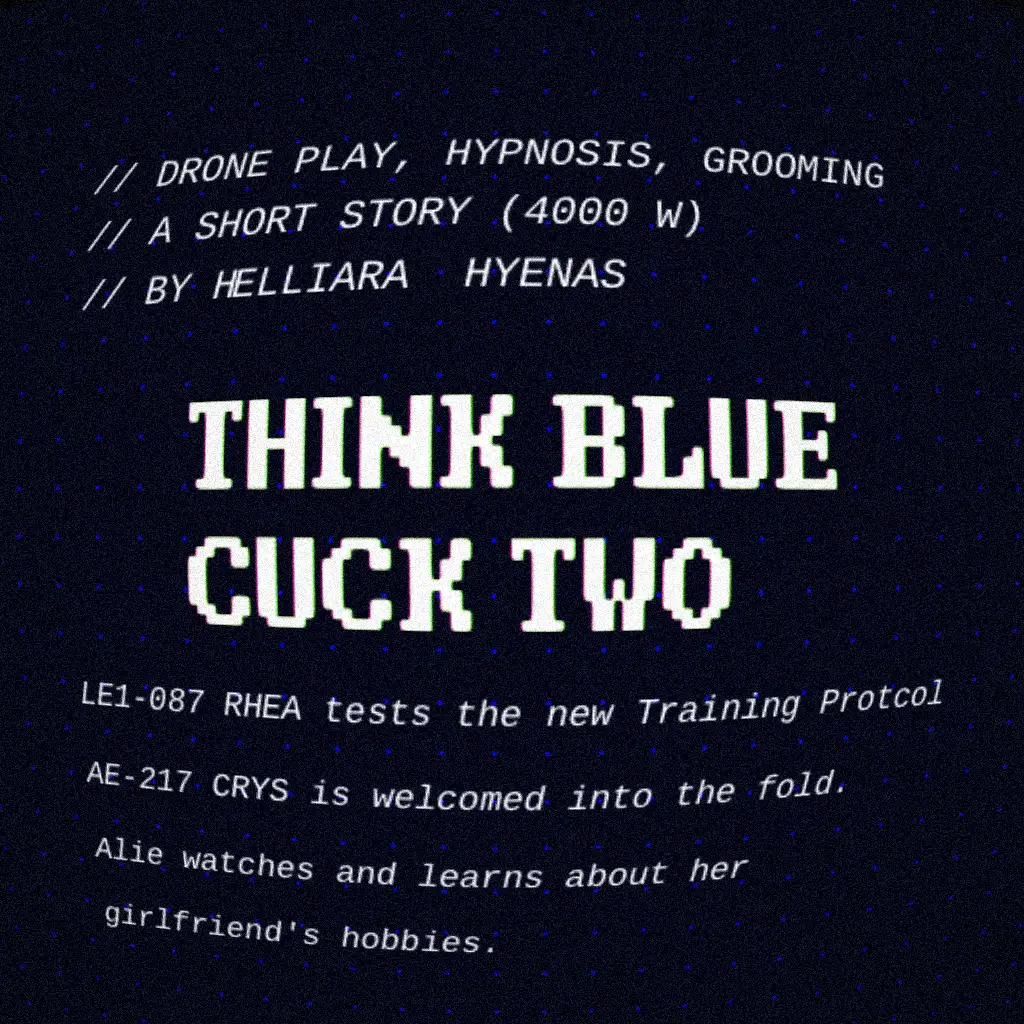
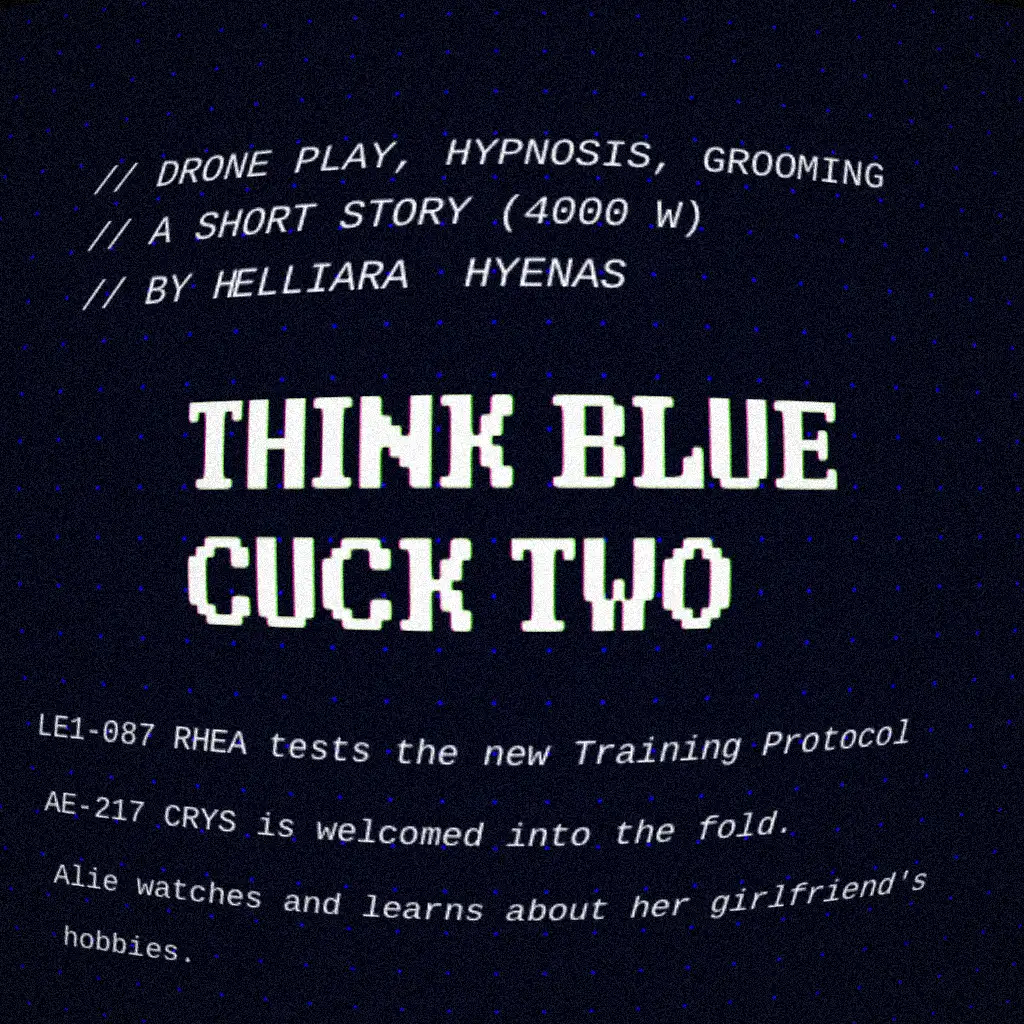
Add images, styling

Changed region(s): [[0.0312, 0.6562, 0.9375, 0.9375]]

diff --git a/css/cuck.css b/css/cuck.css
@@ -1,0 +1,39 @@
+.headset-talk {
+    /* color: rgb(0, 255, 0); */
+    white-space: pre-wrap;
+    font-family: var(--font-family-monospace);
+    font-style: italic;
+    /* font-weight: bold; */
+    line-height: 3;
+    text-align: left;
+}
+
+.accord-talk {
+    /* color: hsl(240, 100%, 80%); */
+    white-space: pre-wrap;
+    font-family: var(--font-family-monospace);
+    line-height: 2;
+    text-align: left;
+    margin: 1rem;
+}
+
+/* 
+.headset-talk::after {
+    font-family: var(--font-family-monospace);
+    font-weight: bold;
+    content: '▮';
+    animation: 1s blink-cursor infinite;
+}
+
+@keyframes blink-cursor {
+
+    0%,
+    49.9% {
+        opacity: 0;
+    }
+
+    50%,
+    99.9% {
+        opacity: 1;
+    }
+} */

diff --git a/css/index.css b/css/index.css
@@ -215,8 +215,8 @@ code {
 }
 
 pre:not([class*="language-"]) {
-	margin: .5em 0;
-	line-height: 1.375;
+	margin: 1em;
+	line-height: 1.8;
 	/* 22px /16 */
 	-moz-tab-size: var(--syntax-tab-size);
 	-o-tab-size: var(--syntax-tab-size);
@@ -226,14 +226,14 @@ pre:not([class*="language-"]) {
 	hyphens: none;
 	direction: ltr;
 	text-align: left;
-	white-space: pre;
+	white-space: pre-wrap;
 	word-spacing: normal;
 	word-break: normal;
 	overflow-x: auto;
 }
 
 code {
-	word-break: break-all;
+	/* word-break: break-all; */
 }
 
 /* Header */

diff --git a/content/blog/20260124-think-blue-cuck-one-two.md b/content/blog/20260124-think-blue-cuck-one-two.md
@@ -7,7 +7,11 @@ permalink: think-blue-cuck-two/
 theme: accord
 ---
 
-![Think Blue Cuck Two Drone play. Hypnosis. Grooming.](./20260124-think-blue-cuck-one-two.webp)
+<style>
+    {% include "css/cuck.css" %}
+</style>
+
+![Think Blue Cuck Two.](./20260124-think-blue-cuck-one-two.webp)
 
 CW: Pet play. Hypnosis. Non-consensual drug use. Insecurity. Voyeurism. Questionably ethical non-monogamy. Living weapons (Drone kink). Non-living weapons (Firearms).
 
@@ -87,7 +91,16 @@ I stared at the black screen pressing against my nose, shivering as Rhea's finge
 
 The headset went back to that pattern. It was a bunch of blue dots in a fluid spiral, kind of like a vortex. Like a hand was reaching into a pond and lazily tracing circles across its surface. Individual words blinked in the middle in oppressive green computer font.
 
-It alternated: *GOOD – PUPPY – GOOD – HOUND*
+It alternated:
+
+<div class='headset-talk'>GOOD
+PUPPY
+GOOD
+HOUND
+GOOD
+PUPPY
+GOOD
+HOUND</div>
 
 I relaxed into the words. I loved being a "good hound" for Rhea.
 
@@ -97,13 +110,46 @@ I relaxed into the words. I loved being a "good hound" for Rhea.
 
 The words started to blink faster:
 
-*HELLO – ALPHA – EXPERIMENTAL – 217 – FORMERLY – "CRYS" – YOU – ARE – A – WONDERFUL – ASSET*
+<div class="headset-talk">HELLO
+ALPHA
+EXPERIMENTAL
+UNIT
+217
+CRYS
+YOU
+ARE
+A
+WONDERFUL
+ASSET
+</div>
 
 *Aww, thanks Rhea!* I thought, *What a nice compliment!*
 
-*LEVEL 1 – EXPERIMENTAL – TECHNICIAN – 087 – FORMERLY – "RHEA" – CONNECTED – YOU – BUT – IS – NOT – SPEAKING*
-
-*FOR – PURPOSES – OF – CONDITIONING – YOU – ARE – GRACED – BY – ACCORD – TECHNICIAN – LEVEL – NINE – 011.*
+<div class="headset-talk">L1
+EXPERIMENTAL
+TECHNICIAN
+087
+RHEA
+CONNECTED
+YOU
+BUT
+IS
+NOT
+SPEAKING.
+FOR
+PURPOSES
+OF
+CONDITIONING
+YOU
+ARE
+GRACED
+BY
+ACCORD
+TECHNICIAN
+LEVEL
+NINE
+011.
+</div>
 
 "Wooh," I muttered. "I don't... These words...?"
 
@@ -111,13 +157,18 @@ I had already lost the plot. The words were going too fast to keep up with. Was 
 
 As if responding to my thoughts, the headset began to blink slower again:
 
-*NOTED. – WE – WILL – SIMPLIFY.
-
-*BEGINNING – TRAINING – PROGRAM – RESEARCH – CANDIDATE – 1*
+<div class="headset-talk">NOTED.
+WE WILL SIMPLIFY.
+BEGINNING TRAINING PROGRAM
+RESEARCH CANDIDATE 6
+</div>
 
 The music changed to a slower, more warbling one. The headset started repeating:
 
-*COMMAND: – SNIFF. – SENSATION: – BLUEBERRY. – RESPONSE: – NUMB.*
+<div class="headset-talk">COMMAND: SNIFF.
+SENSATION: BLUEBERRY.
+RESPONSE: NUMB.
+</div>
 
 I took a deep breath in through my nose, and- Oh, fuck. My tongue lolled from my mouth, and I took another deeper sniff. It did smell like blueberries. Sweet, tart, plump blueberries that melted in my mouth when Rhea fed them to me.
 
@@ -143,11 +194,15 @@ I gave a screwed-up grin, "You know I'm way too bratty to play along with stuff 
 
 The headset was probably burning the swirling spiral of dots into my retinas. As I thought that, the brightness adjusted down slightly, and continued flashing:
 
-*COMMAND: – SNIFF. – SENSATION: – BLUEBERRY. – RESPONSE: – NUMB.*
+<div class="headset-talk">COMMAND: SNIFF.
+SENSATION: BLUEBERRY.
+RESPONSE: NUMB.
+</div>
 
 Hands on me... Hands on my body. Being nothing but an oblivious dumb mutt, blindfolded. This was where I belonged. This was what I deserved. A good puppy.
 
-*GOOD – HOUND*.
+*GOOD
+HOUND*.
 
 "Wooof!" I grunted, "More tummy rubs, please!"
 
@@ -211,21 +266,22 @@ Rhea turned, acknowledging me only with a demonic smile. She tossed her head bac
 
 ---
 
-*COMMAND: – EDGE. – SENSATION: – EDGE. – RESPONSE: – EDGE.*
-
-*COMMAND: EDGE. SENSATION: EDGE. RESPONSE: EDGE.*
-
-*COMMAND:EDGE.SENSATION:EDGE.RESPONSE:EDGE.*
-
-*COMMANDEDGESENSATIONEDGERESPONSEEDGE.*
-
-*COMMEDSENSEDRESEDGE*
+<div class="headset-talk">COMMAND: EDGE.
+SENSATION: EDGE.
+RESPONSE: EDGE.
+COMMAND: EDGE.
+SENSATION: EDGE.
+RESPONSE: EDGE.
+COMMAND:EDGE.SENSATION:EDGE.RESPONSE:EDGE.
+COMMANDEDGESENSATIONEDGERESPONSEEDGE.
+COMMEDSENSEDRESEDGE
+</div>
 
 **"Alpha Echo 217. You may cum."**
 
-*COMMAND: CUM.*
-
-*RESPONSE: HOLY.*
+<div class="headset-talk">COMMAND: CUM.
+RESPONSE: HOLY.
+</div>
 
 ---
 
@@ -281,46 +337,41 @@ I stood with my hand on the freezer, as tears streaked silently down my face.
 
 In her bedroom, LE1-087 RHEA sat patiently at her desk. Spread out on her desk, amidst a bunch of projects and circuit boards, was a black metal pistol. Rhea fiddled with it inserting and removing the cartridge, fiddling with the silencer. A simplistic encrypted video chat window appeared, the message she was waiting for.
 
-```
-••• L9 TO LE1-087, PLEASE REPORT.
+<div class="accord-talk">••• L9 TO LE1-087, PLEASE REPORT.
 ••• RESULTS OF RC6 TRIAL?
 ••• SPEAK.
-```
+</div>
 
 Rhea chose her words carefully, still fiddling with the gun to keep her hands busy.
 
 "Successfully tested Candidate Chemical RC6 on AE-217 and BE-218. Shows promise for suggestibility and pain relief. AE-217 successfully completed Training Program RC1, including Reinforcement Reward Type-3."
 
-```
-••• GLAD TO HEAR.
+<div class="accord-talk">••• GLAD TO HEAR.
 ••• ANY REACTIONS?
 ••• SPEAK.
-```
+</div>
 
 "None adverse. All positive. Subjects displayed heightened arousal and limited pain response. Effects persisted until orgasm and subsequently ceasing administration."
 
-```
-••• YES, WE HAD THE PLEASURE OF WATCHING.
+<div class="accord-talk">••• YES, WE HAD THE PLEASURE OF WATCHING.
 ••• YOUR OWN UNAUTHORIZED EMISSION HAS ALSO BEEN LOGGED.
-```
+</div>
 
 Rhea flushed slightly in a way she hoped her webcam would not detect. She bashfully lowered the gun to the table.
 
-```
-••• CONSIDER THAT YOUR REWARD.
+<div class="accord-talk">••• CONSIDER THAT YOUR REWARD.
 ••• PLEASE TRY TO CONTROL YOURSELF IN THE FUTURE.
 ••• IT IS UNBEFITTING OF LEVELED PERSONNEL, AND MAY HARM YOUR CLADE'S HIERARCHY.
 ••• SPEAK.
-```
+</div>
 
 "Apologies, Ma'am. I understand. Hierarchy should be intact. We deprived the Beta of orgasm and our attention. Our orgasm appeared to enhance her submission. With just a little more prompting, she should take her rightful place."
 
-```
-••• YOU ARE FORGIVEN. YOU ARE DOING VERY IMPORTANT WORK, L1.
+<div class="accord-talk">••• YOU ARE FORGIVEN. YOU ARE DOING VERY IMPORTANT WORK, L1.
 ••• PHARMACEUTICAL WILL BEGIN DISTRIBUTION OF CHEMICAL 6 TO YOUR FELLOW CLADES.
 ••• KEEP IN TOUCH.
 ••• YOUR AUDIENCE WATCHES WITH INTEREST AND EXCITEMENT.
 ••• GLORY TO THE ACCORD.
-```
+</div>
 
 "Glory to the Accord."
